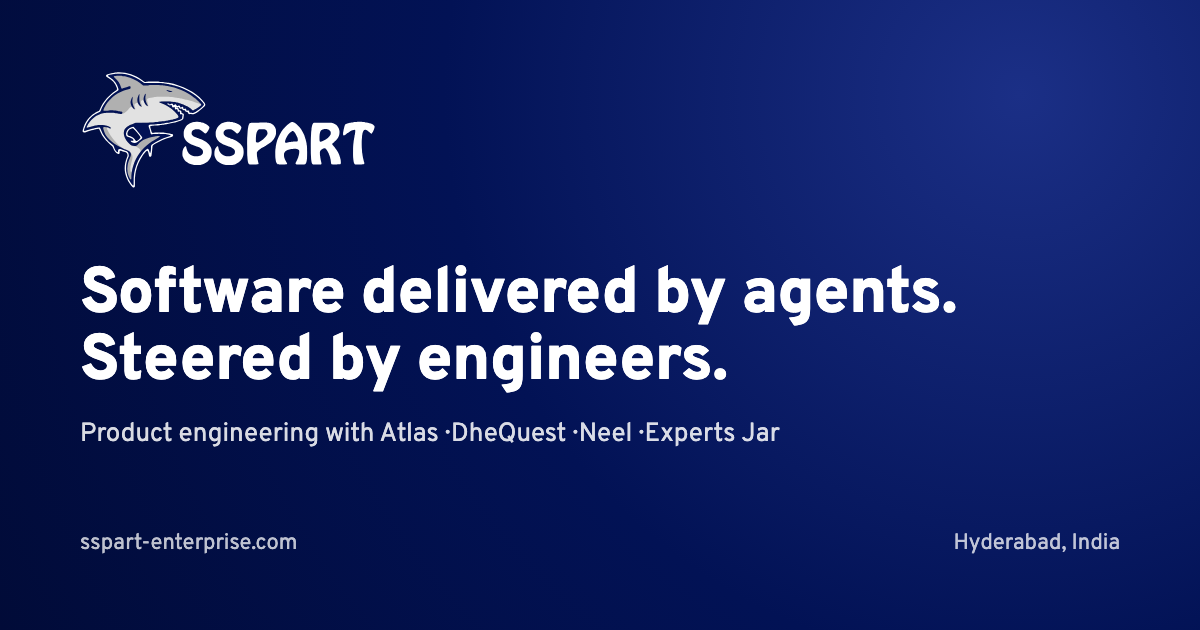
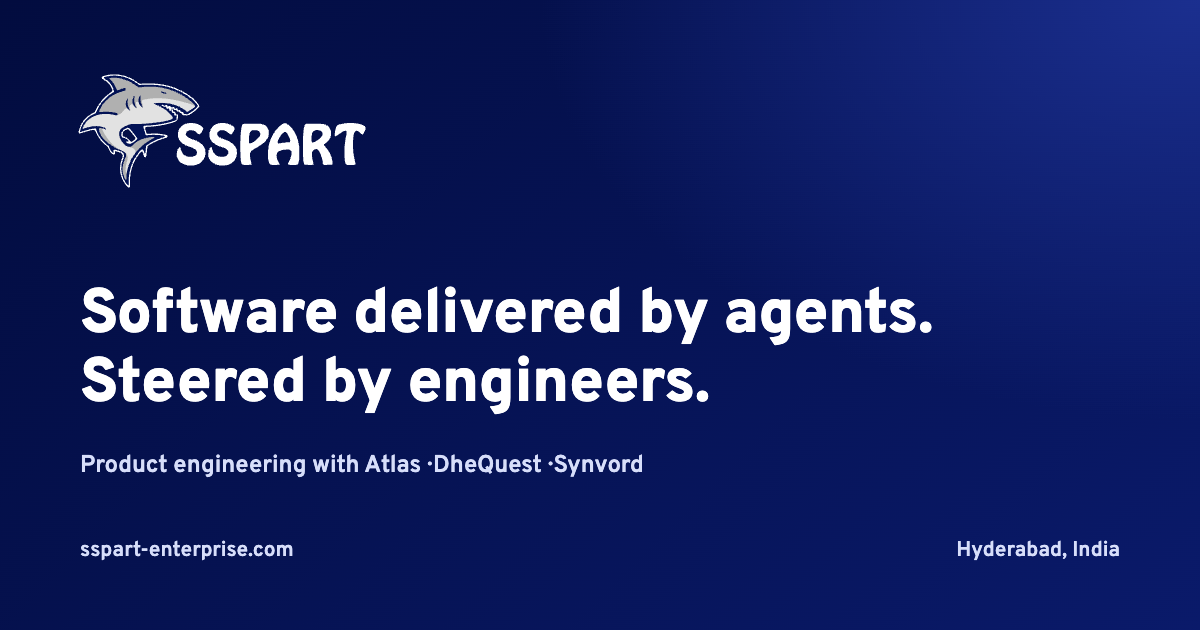
Share image: Atlas, DheQuest and Synvord (Neel and Experts Jar removed); ?v=2 so WhatsApp and others fetch it fresh

diff --git a/index.html b/index.html
@@ -17,7 +17,7 @@
   <meta property="og:title" content="SSPART Enterprise | Atlas-powered product engineering on AWS and Azure">
   <meta property="og:description" content="SSPART Enterprise builds software faster and at lower cost with Atlas, our agent orchestration platform: work split across specialised AI agents and validated at every step. Cloud-native on AWS and Azure.">
   <meta property="og:url" content="https://sspart-enterprise.com/">
-  <meta property="og:image" content="https://sspart-enterprise.com/resources/brand/og-image.png">
+  <meta property="og:image" content="https://sspart-enterprise.com/resources/brand/og-image.png?v=2">
   <meta property="og:image:width" content="1200">
   <meta property="og:image:height" content="630">
   <meta property="og:image:alt" content="SSPART: Software delivered by agents. Steered by engineers.">
@@ -25,7 +25,7 @@
   <meta name="twitter:site" content="@SSPART_ORG">
   <meta name="twitter:title" content="SSPART Enterprise | Atlas-powered product engineering on AWS and Azure">
   <meta name="twitter:description" content="SSPART Enterprise builds software faster and at lower cost with Atlas, our agent orchestration platform: work split across specialised AI agents and validated at every step. Cloud-native on AWS and Azure.">
-  <meta name="twitter:image" content="https://sspart-enterprise.com/resources/brand/og-image.png">
+  <meta name="twitter:image" content="https://sspart-enterprise.com/resources/brand/og-image.png?v=2">
   <!-- /head:brand -->
   <link rel="preload" href="resources/fonts/overpass.woff2" as="font" type="font/woff2" crossorigin>
   <link rel="stylesheet" href="https://cdnjs.cloudflare.com/ajax/libs/font-awesome/6.4.2/css/all.min.css" media="print" onload="this.media='all'">

diff --git a/services.html b/services.html
@@ -17,7 +17,7 @@
   <meta property="og:title" content="Services | Product, AI, data and cloud engineering | SSPART">
   <meta property="og:description" content="SSPART software services: product and frontend engineering, AI and agent systems, commerce and payments, trading systems, data migrations and analytics, and cloud on AWS and Azure.">
   <meta property="og:url" content="https://sspart-enterprise.com/services.html">
-  <meta property="og:image" content="https://sspart-enterprise.com/resources/brand/og-image.png">
+  <meta property="og:image" content="https://sspart-enterprise.com/resources/brand/og-image.png?v=2">
   <meta property="og:image:width" content="1200">
   <meta property="og:image:height" content="630">
   <meta property="og:image:alt" content="SSPART: Software delivered by agents. Steered by engineers.">
@@ -25,7 +25,7 @@
   <meta name="twitter:site" content="@SSPART_ORG">
   <meta name="twitter:title" content="Services | Product, AI, data and cloud engineering | SSPART">
   <meta name="twitter:description" content="SSPART software services: product and frontend engineering, AI and agent systems, commerce and payments, trading systems, data migrations and analytics, and cloud on AWS and Azure.">
-  <meta name="twitter:image" content="https://sspart-enterprise.com/resources/brand/og-image.png">
+  <meta name="twitter:image" content="https://sspart-enterprise.com/resources/brand/og-image.png?v=2">
   <!-- /head:brand -->
   <link rel="preload" href="resources/fonts/overpass.woff2" as="font" type="font/woff2" crossorigin>
   <link rel="stylesheet" href="https://cdnjs.cloudflare.com/ajax/libs/font-awesome/6.4.2/css/all.min.css" media="print" onload="this.media='all'">

diff --git a/dhequest.html b/dhequest.html
@@ -17,7 +17,7 @@
   <meta property="og:title" content="DheQuest | From idea to back-test to live automation | SSPART">
   <meta property="og:description" content="DheQuest turns trading rules into tested, automated strategies: back-test on years of history, paper trade, then trade live through your own broker.">
   <meta property="og:url" content="https://sspart-enterprise.com/dhequest.html">
-  <meta property="og:image" content="https://sspart-enterprise.com/resources/brand/og-image.png">
+  <meta property="og:image" content="https://sspart-enterprise.com/resources/brand/og-image.png?v=2">
   <meta property="og:image:width" content="1200">
   <meta property="og:image:height" content="630">
   <meta property="og:image:alt" content="SSPART: Software delivered by agents. Steered by engineers.">
@@ -25,7 +25,7 @@
   <meta name="twitter:site" content="@SSPART_ORG">
   <meta name="twitter:title" content="DheQuest | From idea to back-test to live automation | SSPART">
   <meta name="twitter:description" content="DheQuest turns trading rules into tested, automated strategies: back-test on years of history, paper trade, then trade live through your own broker.">
-  <meta name="twitter:image" content="https://sspart-enterprise.com/resources/brand/og-image.png">
+  <meta name="twitter:image" content="https://sspart-enterprise.com/resources/brand/og-image.png?v=2">
   <!-- /head:brand -->
   <link rel="preload" href="resources/fonts/overpass.woff2" as="font" type="font/woff2" crossorigin>
   <link rel="stylesheet" href="https://cdnjs.cloudflare.com/ajax/libs/font-awesome/6.4.2/css/all.min.css" media="print" onload="this.media='all'">

diff --git a/atlas.html b/atlas.html
@@ -17,7 +17,7 @@
   <meta property="og:title" content="Atlas | Give the requirement, get it delivered | SSPART">
   <meta property="og:description" content="Atlas turns requirements into delivered work using the AI subscription you already pay for. Free for one person, and $19 per user a month.">
   <meta property="og:url" content="https://sspart-enterprise.com/atlas.html">
-  <meta property="og:image" content="https://sspart-enterprise.com/resources/brand/og-image.png">
+  <meta property="og:image" content="https://sspart-enterprise.com/resources/brand/og-image.png?v=2">
   <meta property="og:image:width" content="1200">
   <meta property="og:image:height" content="630">
   <meta property="og:image:alt" content="SSPART: Software delivered by agents. Steered by engineers.">
@@ -25,7 +25,7 @@
   <meta name="twitter:site" content="@SSPART_ORG">
   <meta name="twitter:title" content="Atlas | Give the requirement, get it delivered | SSPART">
   <meta name="twitter:description" content="Atlas turns requirements into delivered work using the AI subscription you already pay for. Free for one person, and $19 per user a month.">
-  <meta name="twitter:image" content="https://sspart-enterprise.com/resources/brand/og-image.png">
+  <meta name="twitter:image" content="https://sspart-enterprise.com/resources/brand/og-image.png?v=2">
   <!-- /head:brand -->
   <link rel="preload" href="resources/fonts/overpass.woff2" as="font" type="font/woff2" crossorigin>
   <link rel="stylesheet" href="https://cdnjs.cloudflare.com/ajax/libs/font-awesome/6.4.2/css/all.min.css" media="print" onload="this.media='all'">

diff --git a/synvord.html b/synvord.html
@@ -17,7 +17,7 @@
   <meta property="og:title" content="Synvord | One platform. In order. | Coming soon | SSPART">
   <meta property="og:description" content="Synvord, coming soon from SSPART: one platform for campaigns, hospitals, schools, e-commerce, hotels, properties, restaurants and HR.">
   <meta property="og:url" content="https://sspart-enterprise.com/synvord.html">
-  <meta property="og:image" content="https://sspart-enterprise.com/resources/brand/og-image.png">
+  <meta property="og:image" content="https://sspart-enterprise.com/resources/brand/og-image.png?v=2">
   <meta property="og:image:width" content="1200">
   <meta property="og:image:height" content="630">
   <meta property="og:image:alt" content="SSPART: Software delivered by agents. Steered by engineers.">
@@ -25,7 +25,7 @@
   <meta name="twitter:site" content="@SSPART_ORG">
   <meta name="twitter:title" content="Synvord | One platform. In order. | Coming soon | SSPART">
   <meta name="twitter:description" content="Synvord, coming soon from SSPART: one platform for campaigns, hospitals, schools, e-commerce, hotels, properties, restaurants and HR.">
-  <meta name="twitter:image" content="https://sspart-enterprise.com/resources/brand/og-image.png">
+  <meta name="twitter:image" content="https://sspart-enterprise.com/resources/brand/og-image.png?v=2">
   <!-- /head:brand -->
   <link rel="preload" href="resources/fonts/overpass.woff2" as="font" type="font/woff2" crossorigin>
   <link rel="stylesheet" href="https://cdnjs.cloudflare.com/ajax/libs/font-awesome/6.4.2/css/all.min.css" media="print" onload="this.media='all'">

diff --git a/grievance.html b/grievance.html
@@ -17,7 +17,7 @@
   <meta property="og:title" content="Grievance officer and contact | SSPART Enterprise">
   <meta property="og:description" content="Registered office, contact details and how to raise a grievance with SSPART under the IT Rules 2021 and the DPDP Act 2023.">
   <meta property="og:url" content="https://sspart-enterprise.com/grievance.html">
-  <meta property="og:image" content="https://sspart-enterprise.com/resources/brand/og-image.png">
+  <meta property="og:image" content="https://sspart-enterprise.com/resources/brand/og-image.png?v=2">
   <meta property="og:image:width" content="1200">
   <meta property="og:image:height" content="630">
   <meta property="og:image:alt" content="SSPART: Software delivered by agents. Steered by engineers.">
@@ -25,7 +25,7 @@
   <meta name="twitter:site" content="@SSPART_ORG">
   <meta name="twitter:title" content="Grievance officer and contact | SSPART Enterprise">
   <meta name="twitter:description" content="Registered office, contact details and how to raise a grievance with SSPART under the IT Rules 2021 and the DPDP Act 2023.">
-  <meta name="twitter:image" content="https://sspart-enterprise.com/resources/brand/og-image.png">
+  <meta name="twitter:image" content="https://sspart-enterprise.com/resources/brand/og-image.png?v=2">
   <!-- /head:brand -->
   <link rel="preload" href="resources/fonts/overpass.woff2" as="font" type="font/woff2" crossorigin>
   <link rel="stylesheet" href="css/styles.css?v=2026-11-12f">

diff --git a/privacy.html b/privacy.html
@@ -17,7 +17,7 @@
   <meta property="og:title" content="Privacy policy | SSPART Enterprise">
   <meta property="og:description" content="How SSPART collects, uses and protects personal data, and your rights under India&#x27;s Digital Personal Data Protection Act, 2023.">
   <meta property="og:url" content="https://sspart-enterprise.com/privacy.html">
-  <meta property="og:image" content="https://sspart-enterprise.com/resources/brand/og-image.png">
+  <meta property="og:image" content="https://sspart-enterprise.com/resources/brand/og-image.png?v=2">
   <meta property="og:image:width" content="1200">
   <meta property="og:image:height" content="630">
   <meta property="og:image:alt" content="SSPART: Software delivered by agents. Steered by engineers.">
@@ -25,7 +25,7 @@
   <meta name="twitter:site" content="@SSPART_ORG">
   <meta name="twitter:title" content="Privacy policy | SSPART Enterprise">
   <meta name="twitter:description" content="How SSPART collects, uses and protects personal data, and your rights under India&#x27;s Digital Personal Data Protection Act, 2023.">
-  <meta name="twitter:image" content="https://sspart-enterprise.com/resources/brand/og-image.png">
+  <meta name="twitter:image" content="https://sspart-enterprise.com/resources/brand/og-image.png?v=2">
   <!-- /head:brand -->
   <link rel="preload" href="resources/fonts/overpass.woff2" as="font" type="font/woff2" crossorigin>
   <link rel="stylesheet" href="css/styles.css?v=2026-11-12f">

diff --git a/shipping.html b/shipping.html
@@ -17,7 +17,7 @@
   <meta property="og:title" content="Shipping and delivery policy | SSPART Enterprise">
   <meta property="og:description" content="SSPART products and services are delivered digitally; this page explains how and when.">
   <meta property="og:url" content="https://sspart-enterprise.com/shipping.html">
-  <meta property="og:image" content="https://sspart-enterprise.com/resources/brand/og-image.png">
+  <meta property="og:image" content="https://sspart-enterprise.com/resources/brand/og-image.png?v=2">
   <meta property="og:image:width" content="1200">
   <meta property="og:image:height" content="630">
   <meta property="og:image:alt" content="SSPART: Software delivered by agents. Steered by engineers.">
@@ -25,7 +25,7 @@
   <meta name="twitter:site" content="@SSPART_ORG">
   <meta name="twitter:title" content="Shipping and delivery policy | SSPART Enterprise">
   <meta name="twitter:description" content="SSPART products and services are delivered digitally; this page explains how and when.">
-  <meta name="twitter:image" content="https://sspart-enterprise.com/resources/brand/og-image.png">
+  <meta name="twitter:image" content="https://sspart-enterprise.com/resources/brand/og-image.png?v=2">
   <!-- /head:brand -->
   <link rel="preload" href="resources/fonts/overpass.woff2" as="font" type="font/woff2" crossorigin>
   <link rel="stylesheet" href="css/styles.css?v=2026-11-12f">

diff --git a/contact.html b/contact.html
@@ -17,7 +17,7 @@
   <meta property="og:title" content="Contact | SSPART Enterprise">
   <meta property="og:description" content="Tell SSPART Enterprise what you&#x27;re working on. Ask about Atlas, DheQuest, Synvord or custom software.">
   <meta property="og:url" content="https://sspart-enterprise.com/contact.html">
-  <meta property="og:image" content="https://sspart-enterprise.com/resources/brand/og-image.png">
+  <meta property="og:image" content="https://sspart-enterprise.com/resources/brand/og-image.png?v=2">
   <meta property="og:image:width" content="1200">
   <meta property="og:image:height" content="630">
   <meta property="og:image:alt" content="SSPART: Software delivered by agents. Steered by engineers.">
@@ -25,7 +25,7 @@
   <meta name="twitter:site" content="@SSPART_ORG">
   <meta name="twitter:title" content="Contact | SSPART Enterprise">
   <meta name="twitter:description" content="Tell SSPART Enterprise what you&#x27;re working on. Ask about Atlas, DheQuest, Synvord or custom software.">
-  <meta name="twitter:image" content="https://sspart-enterprise.com/resources/brand/og-image.png">
+  <meta name="twitter:image" content="https://sspart-enterprise.com/resources/brand/og-image.png?v=2">
   <!-- /head:brand -->
   <link rel="preload" href="resources/fonts/overpass.woff2" as="font" type="font/woff2" crossorigin>
   <link rel="stylesheet" href="css/styles.css?v=2026-11-12f">

diff --git a/refund.html b/refund.html
@@ -17,7 +17,7 @@
   <meta property="og:title" content="Refund and cancellation policy | SSPART Enterprise">
   <meta property="og:description" content="How cancellations and refunds work for SSPART subscriptions, services and payments.">
   <meta property="og:url" content="https://sspart-enterprise.com/refund.html">
-  <meta property="og:image" content="https://sspart-enterprise.com/resources/brand/og-image.png">
+  <meta property="og:image" content="https://sspart-enterprise.com/resources/brand/og-image.png?v=2">
   <meta property="og:image:width" content="1200">
   <meta property="og:image:height" content="630">
   <meta property="og:image:alt" content="SSPART: Software delivered by agents. Steered by engineers.">
@@ -25,7 +25,7 @@
   <meta name="twitter:site" content="@SSPART_ORG">
   <meta name="twitter:title" content="Refund and cancellation policy | SSPART Enterprise">
   <meta name="twitter:description" content="How cancellations and refunds work for SSPART subscriptions, services and payments.">
-  <meta name="twitter:image" content="https://sspart-enterprise.com/resources/brand/og-image.png">
+  <meta name="twitter:image" content="https://sspart-enterprise.com/resources/brand/og-image.png?v=2">
   <!-- /head:brand -->
   <link rel="preload" href="resources/fonts/overpass.woff2" as="font" type="font/woff2" crossorigin>
   <link rel="stylesheet" href="css/styles.css?v=2026-11-12f">

diff --git a/press.html b/press.html
@@ -17,7 +17,7 @@
   <meta property="og:title" content="Press and media | SSPART Enterprise">
   <meta property="og:description" content="SSPART press kit: company boilerplate, fact sheet, logos and product visuals.">
   <meta property="og:url" content="https://sspart-enterprise.com/press.html">
-  <meta property="og:image" content="https://sspart-enterprise.com/resources/brand/og-image.png">
+  <meta property="og:image" content="https://sspart-enterprise.com/resources/brand/og-image.png?v=2">
   <meta property="og:image:width" content="1200">
   <meta property="og:image:height" content="630">
   <meta property="og:image:alt" content="SSPART: Software delivered by agents. Steered by engineers.">
@@ -25,7 +25,7 @@
   <meta name="twitter:site" content="@SSPART_ORG">
   <meta name="twitter:title" content="Press and media | SSPART Enterprise">
   <meta name="twitter:description" content="SSPART press kit: company boilerplate, fact sheet, logos and product visuals.">
-  <meta name="twitter:image" content="https://sspart-enterprise.com/resources/brand/og-image.png">
+  <meta name="twitter:image" content="https://sspart-enterprise.com/resources/brand/og-image.png?v=2">
   <!-- /head:brand -->
   <link rel="preload" href="resources/fonts/overpass.woff2" as="font" type="font/woff2" crossorigin>
   <link rel="stylesheet" href="css/styles.css?v=2026-11-12f">

diff --git a/terms.html b/terms.html
@@ -17,7 +17,7 @@
   <meta property="og:title" content="Terms of service | SSPART Enterprise">
   <meta property="og:description" content="Terms that apply to the SSPART website and to SSPART products and services.">
   <meta property="og:url" content="https://sspart-enterprise.com/terms.html">
-  <meta property="og:image" content="https://sspart-enterprise.com/resources/brand/og-image.png">
+  <meta property="og:image" content="https://sspart-enterprise.com/resources/brand/og-image.png?v=2">
   <meta property="og:image:width" content="1200">
   <meta property="og:image:height" content="630">
   <meta property="og:image:alt" content="SSPART: Software delivered by agents. Steered by engineers.">
@@ -25,7 +25,7 @@
   <meta name="twitter:site" content="@SSPART_ORG">
   <meta name="twitter:title" content="Terms of service | SSPART Enterprise">
   <meta name="twitter:description" content="Terms that apply to the SSPART website and to SSPART products and services.">
-  <meta name="twitter:image" content="https://sspart-enterprise.com/resources/brand/og-image.png">
+  <meta name="twitter:image" content="https://sspart-enterprise.com/resources/brand/og-image.png?v=2">
   <!-- /head:brand -->
   <link rel="preload" href="resources/fonts/overpass.woff2" as="font" type="font/woff2" crossorigin>
   <link rel="stylesheet" href="css/styles.css?v=2026-11-12f">
